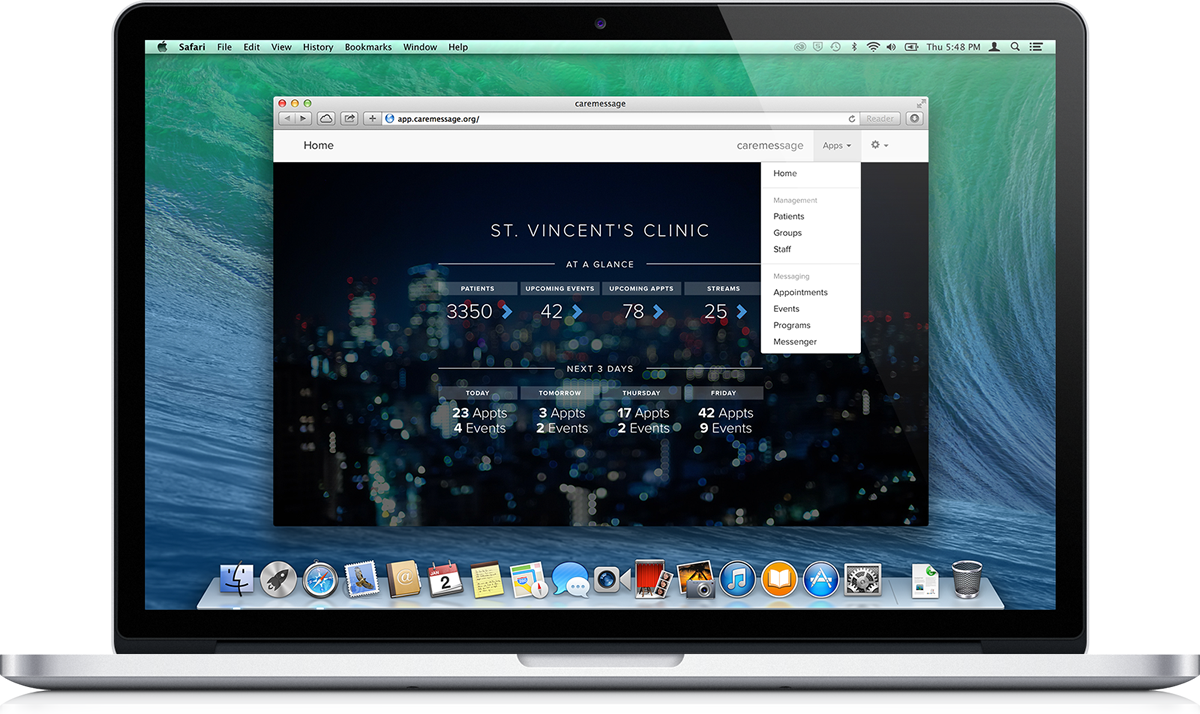
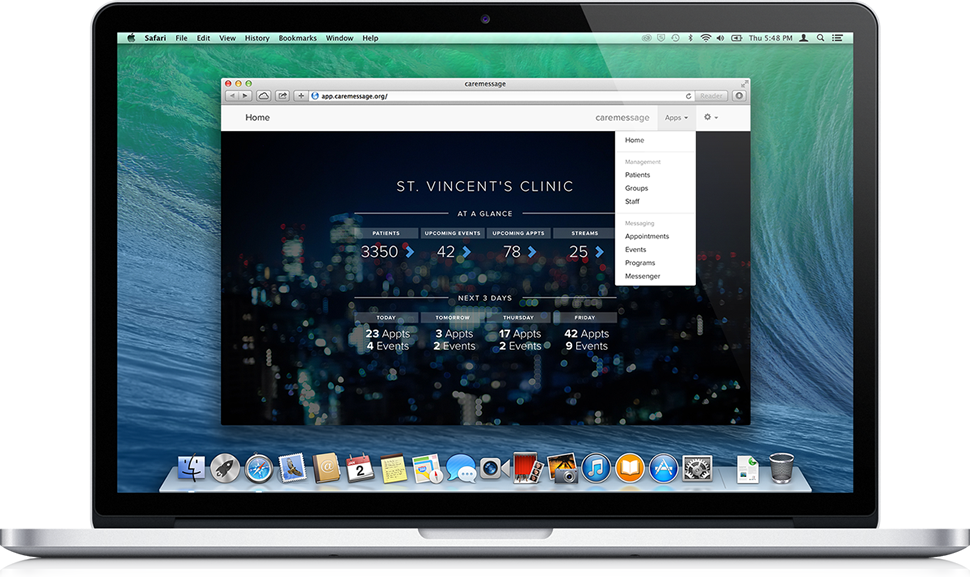
style fixes, optimized some images

diff --git a/content/stylesheet/application.css b/content/stylesheet/application.css
@@ -1323,6 +1323,8 @@ body#product-programs .primary-nav .navbar-nav>li>a, body#product-programs .prim
   color: #fff;
   background-size: cover;
   text-align:center;
+   background-image: url('/images/programs-hero-2-blur.jpg');
+  background-attachment: fixed;
 }
 
 .programs-hero-caption p.programs {
@@ -1736,7 +1738,6 @@ h1.hero-grey {
   background-image: url('/images/partners-hero.jpg');
   background-size:cover !important;
   background-attachment:fixed;
-  background-position: center center;
   color: #fff;
 }
 
@@ -1744,7 +1745,6 @@ h1.hero-grey {
   background-image: url('/images/partners-hero-blur.jpg');
   background-size:cover !important;
   background-attachment:fixed;
-  background-position: center center;
   border-top: 1px solid rgba(255,255,255,0.25);
 }
 
@@ -1813,7 +1813,9 @@ span.chevron {font-size: 30px;}
   padding: 50px 0px;
   text-align:center;
   background-size:cover;
-}
+  background-attachment:fixed;
+  background-position: center center;
+  }
 
 /* ============================
    Section 8.1 - Solutions - Clinics
@@ -1828,6 +1830,11 @@ span.chevron {font-size: 30px;}
 .solutions h1.hero{
   font-size: 48px;
 }
+
+.solutions h1.hero-grey {
+	font-size: 48px;
+}
+
 .dark h1.hero-grey {
   color:#ddd;
 }
@@ -1839,86 +1846,97 @@ p.solutions-caption-specific {
   margin-bottom: 25px;
 }
 
-body#partners-clinics {
+
+#clinics-header {
   background-image: url('/images/solutions-clinics-hero.jpg');
   background-size:cover !important;
   background-attachment:fixed;
-  background-position: center center;
-
    }
+
+#clinics-body {
+  background-image: url('/images/solutions-clinics-hero-blur.jpg');
+ }
 
 /* ============================
    Section 8.2 - Solutions - Hospitals
    ============================ */
 
-body#partners-hospitals {
+#hospitals-header {
   background-image: url('/images/solutions-hospitals.jpg');
   background-size:cover !important;
   background-attachment:fixed;
-  background-position: center center;
+
 
    }
 
-   /* ============================
-   Section 8.2 - Solutions - Hospitals
-   ============================ */
-
-body#partners-hospitals {
-  background-image: url('/images/solutions-hospitals.jpg');
-  background-size:cover !important;
-  background-attachment:fixed;
-  background-position: center center;
-
-   }
+#hospitals-body {
+  background-image: url('/images/solutions-hospitals-blur.jpg');
+  }
 
 /* ============================
    Section 8.3 - Solutions - Payers
    ============================ */
 
-body#partners-payers {
+#payers-header {
   background-image: url('/images/solutions-payers.jpg');
   background-size:cover !important;
   background-attachment:fixed;
-  background-position: center center;
+
 
    }
+
+#payers-body {
+  background-image: url('/images/solutions-payers-blur.jpg');
+  }
 
 /* ============================
    Section 8.4 - Solutions - Organizers
    ============================ */
 
-body#partners-organizers {
+#organizers-header {
   background-image: url('/images/solutions-organizers.jpg');
   background-size:cover !important;
   background-attachment:fixed;
-  background-position: center center;
+
 
    }
+
+#organizers-body {
+  background-image: url('/images/solutions-organizers-blur.jpg');
+  }
+
 
 /* ============================
    Section 8.5 - Solutions - Researchers
    ============================ */
 
-body#partners-researchers {
+#researchers-header {
   background-image: url('/images/solutions-researchers.jpg');
   background-size:cover !important;
   background-attachment:fixed;
-  background-position: center center;
+
 
    }
 
-
+#researchers-body {
+  background-image: url('/images/solutions-researchers-blur.jpg');
+  }
 
 /* ============================
    Section 8.6 - Solutions - Government
    ============================ */
 
-body#partners-government {
+#government-header {
   background-image: url('/images/solutions-govt-bg.jpg');
   background-size:cover !important;
   background-attachment:fixed;
-  background-position: center center;
+
+
    }
+
+#government-body {
+  background-image: url('/images/solutions-govt-bg-blur.jpg');
+  }
 
 /* ============================
    Section 9 - Customized mailchimp form

diff --git a/content/platform/index.html b/content/platform/index.html
@@ -44,7 +44,7 @@ body_id: welcome-platform
 	<%= image_tag("platform_cloud.png", class: "hero-above") %>
 	<h1 class=hero>A  Secure Cloud-Based Platform</h1>
 	<p class=hero-sub-3>No software to install, no computer expertise to get started, no servers or IT management to worry about. Access our secure platform from any device with an internet connection.</p>
-	<%= image_tag("app-cloud.png", class: "hero-product") %>
+	<%= image_tag("app-cloud.jpg", class: "hero-product") %>
 	<p class=hero-product-caption><strong>No Compromise.</strong> The same great user experience carries over from desktop to mobile.</p>
 
 <hr/>
@@ -63,15 +63,15 @@ body_id: welcome-platform
 
 	<div class="tab-content">
 	  <div class="tab-pane fade in active" id="groups">
-		<div class=truncate><%= image_tag("product-group.png", class: "hero-product") %></div>
+		<div class=truncate><%= image_tag("product-group.jpg", class: "hero-product") %></div>
 		<p class=hero-product-caption>Categorize all of your patients into distinct groups based on shared characteristics - such as a common disease/condition or a common meeting time - making for easy outreach later.</p>
 	  </div>
 	  <div class="tab-pane fade" id="appointments">
-		 <div class=truncate><%= image_tag("product-appts.png", class: "hero-product") %></div>
+		 <div class=truncate><%= image_tag("product-appts.jpg", class: "hero-product") %></div>
 		<p class=hero-product-caption>View all your upcoming appointments, see who&#8217;s coming and who isn&#8217;t, and save attendance all from one easy interface. Use automated text and voice reminders to reduce no-shows and collect RSVPs. </p>
 	  </div>
 	  <div class="tab-pane fade" id="events">
-		   <div class=truncate><%= image_tag("product-events.png", class: "hero-product") %></div>
+		   <div class=truncate><%= image_tag("product-events.jpg", class: "hero-product") %></div>
 		<p class=hero-product-caption>Finally, an easy way to manage diabetes classes, teen pregnancy workshops and other ongoing events with your healthcare organization. Improve program attendance rates by sending out automated reminders for upcoming events to all attendees with the click of a button, automatically collect RSVPs to see who&#8217;s coming and save attendance.</p>
 	  </div>
 
@@ -94,11 +94,11 @@ body_id: welcome-platform
 
 	<div class="tab-content">
 	  <div class="tab-pane fade in active" id="streams">
-		<div class=truncate><%= image_tag("product-stream.png", class: "hero-product") %></div>
+		<div class=truncate><%= image_tag("product-stream.jpg", class: "hero-product") %></div>
 		<p class=hero-product-caption>Enroll all of your patients in our powerful, evidence-based health education programs that replicate the experience of interacting with a live health coach. Automatically collect engagement and self-reported data on patient progress in-between visits, save valuable time and human resources and improve overall patient satisfaction.</p>
 	  </div>
 	  <div class="tab-pane fade" id="messenger">
-		 <div class=truncate><%= image_tag("product-messenger.png", class: "hero-product") %></div>
+		 <div class=truncate><%= image_tag("product-messenger.jpg", class: "hero-product") %></div>
 		<p class=hero-product-caption>Say no to time-consuming phone calls. Instantly communicate with your patients with messenger. Our platform saves all incoming responses - just like an email inbox - so you can reply whenever you want, wherever you want.</p>
 	  </div>
 

diff --git a/content/index.html b/content/index.html
@@ -28,21 +28,21 @@ body_id: welcome-index
 <div class="row extra-space">
 	<div class="col-xs-4">
 	<%= image_tag("home-cloud.png", class: "hero-above") %>
-	<h3 class=hero>Streamlined Engagement</h3>
+	<h3 class=hero><a href="/platform/">Streamlined Engagement <span class="glyphicon glyphicon-chevron-right"></span></a></h3>
 	<p class=other-features-caption>Automate population outreach through text and voice messaging, and save valuable time calling and following up.</p>
 
 	</div>
 
 		<div class="col-xs-4">
 	<%= image_tag("home-message.png", class: "hero-above") %>
-	<h3 class=hero>Tailored Messaging</h3>
+	<h3 class=hero><a href="/programs/">Tailored Messaging <span class="glyphicon glyphicon-chevron-right"></span></a></h3>
 	<p class=other-features-caption>Address the chronic disease burden through evidence-based programs designed for the hardest to manage.</p>
 
 	</div>
 
 	<div class="col-xs-4">
 	<%= image_tag("home-network.png", class: "hero-above") %>
-	<h3 class=hero>Robust Care Network</h3>
+	<h3 class=hero><a href="/partners/">Robust Care Network <span class="glyphicon glyphicon-chevron-right"></span></a></h3>
 	<p class=other-features-caption>Strengthen the bonds between patients and their care family, including providers, payers and caregivers.</p>
 
 	</div>

diff --git a/content/programs/index.html b/content/programs/index.html
@@ -131,7 +131,7 @@ body_id: welcome-programs
 
 	</div> <!--.sweettalk-container -->
 
-	<p class="hero-sub-sample">SugarTalk and PláticaDulce are year long programs that comprise shorter 4-6 week long modules addressing topics most relevant to type 2 diabetics - such as properly injecting insulin, recognizing a high or low blood glucose or avoiding culturally-specific foods that tend to increase blood glucose. The programs are tailored to various factors, including disease progression, age, gender, ethnicity and cultural preferences.</p>
+	<p class="hero-sub-sample">SugarTalk and PlaticaDulce are year long programs that comprise shorter 4-6 week long modules addressing topics most relevant to type 2 diabetics - such as properly injecting insulin, recognizing a high or low blood glucose or avoiding culturally-specific foods that tend to increase blood glucose. The programs are tailored to various factors, including disease progression, age, gender, ethnicity and cultural preferences.</p>
 
 	</div> <!--.col-xs-5 -->
 

diff --git a/content/partners/researchers.html b/content/partners/researchers.html
@@ -2,7 +2,7 @@
 body_id: partners-researchers
 ---
 
-<div id=researchers-header class="dark solutions solutions-header">
+<div data-stellar-background-ratio="0.2" id=researchers-header class="dark solutions solutions-header">
 <div class="container body-container">
 
 <h1 class=hero style="margin-bottom: 0px;">Researchers</h1>
@@ -12,7 +12,7 @@ body_id: partners-researchers
 </div>
 </div>
 
-<div class=solutions-body>
+<div class=solutions-body id=researchers-body>
 <div class="container dark">
 
 <div class="row extra-space">

diff --git a/content/partners/hospitals.html b/content/partners/hospitals.html
@@ -2,7 +2,7 @@
 body_id: partners-hospitals
 ---
 
-<div id=hospitals-clinics-container class="dark solutions solutions-header">
+<div data-stellar-background-ratio="0.2" id=hospitals-header class="dark solutions solutions-header">
 <div class="container body-container">
 
 <h1 class=hero style="margin-bottom: 0px;">Hospitals</h1>
@@ -11,7 +11,7 @@ body_id: partners-hospitals
 </div>
 </div>
 
-<div class=solutions-body>
+<div class=solutions-body id=hospitals-body>
 <div class="container dark">
 
 <div class="row extra-space">

diff --git a/content/partners/government.html b/content/partners/government.html
@@ -3,7 +3,7 @@ body_id: partners-government
 ---
 
 
-<div id=government-header class="dark solutions solutions-header">
+<div data-stellar-background-ratio="0.2" id=government-header class="dark solutions solutions-header">
 <div class="container body-container">
 
 <h1 class=hero style="margin-bottom: 0px;">Government</h1>
@@ -13,7 +13,7 @@ body_id: partners-government
 </div>
 </div>
 
-<div class=solutions-body>
+<div class=solutions-body id=government-body>
 <div class="container dark">
 
 <div class="row extra-space">

diff --git a/content/partners/organizers.html b/content/partners/organizers.html
@@ -2,7 +2,7 @@
 body_id: partners-organizers
 ---
 
-<div id=researchers-header class="dark solutions solutions-header">
+<div data-stellar-background-ratio="0.2" id=organizers-header class="dark solutions solutions-header">
 <div class="container body-container">
 
 <h1 class=hero style="margin-bottom: 0px;">Organizers</h1>
@@ -12,7 +12,7 @@ body_id: partners-organizers
 </div>
 </div>
 
-<div class=solutions-body>
+<div class=solutions-body id=organizers-body>
 <div class="container dark">
 
 <div class="row extra-space">

diff --git a/content/partners/clinics.html b/content/partners/clinics.html
@@ -2,7 +2,7 @@
 body_id: partners-clinics
 ---
 
-<div id=solutions-clinics-container  class="dark solutions solutions-header">
+<div data-stellar-background-ratio="0.2" id=clinics-header  class="dark solutions solutions-header">
 <div class="container body-container">
 
 <h1 class=hero style="margin-bottom: 0px;">Clinics</h1>
@@ -11,7 +11,7 @@ body_id: partners-clinics
 </div>
 </div>
 
-<div class=solutions-body>
+<div class=solutions-body id=clinics-body>
 <div class="container dark">
 
 <div class="row extra-space">

diff --git a/content/partners/payers.html b/content/partners/payers.html
@@ -2,7 +2,7 @@
 body_id: partners-payers
 ---
 
-<div id=hospitals-clinics-container class="dark solutions solutions-header">
+<div data-stellar-background-ratio="0.2" id=payers-header class="dark solutions solutions-header">
 <div class="container body-container">
 
 <h1 class=hero style="margin-bottom: 0px;">Payers</h1>
@@ -11,7 +11,7 @@ body_id: partners-payers
 </div>
 </div>
 
-<div class=solutions-body>
+<div class=solutions-body id=payers-body>
 <div class="container dark">
 
 <div class="row extra-space">

diff --git a/content/partners/index.html b/content/partners/index.html
@@ -2,7 +2,7 @@
 body_id: welcome-partners
 ---
 
-<div id=solutions-hero class="dark solutions solutions-header">
+<div data-stellar-background-ratio="0.3" id=solutions-hero class="dark solutions solutions-header">
 <div class="container body-container">
 
 <h1 class=hero style="margin-bottom: 0px;">We're on your team.</h1>
